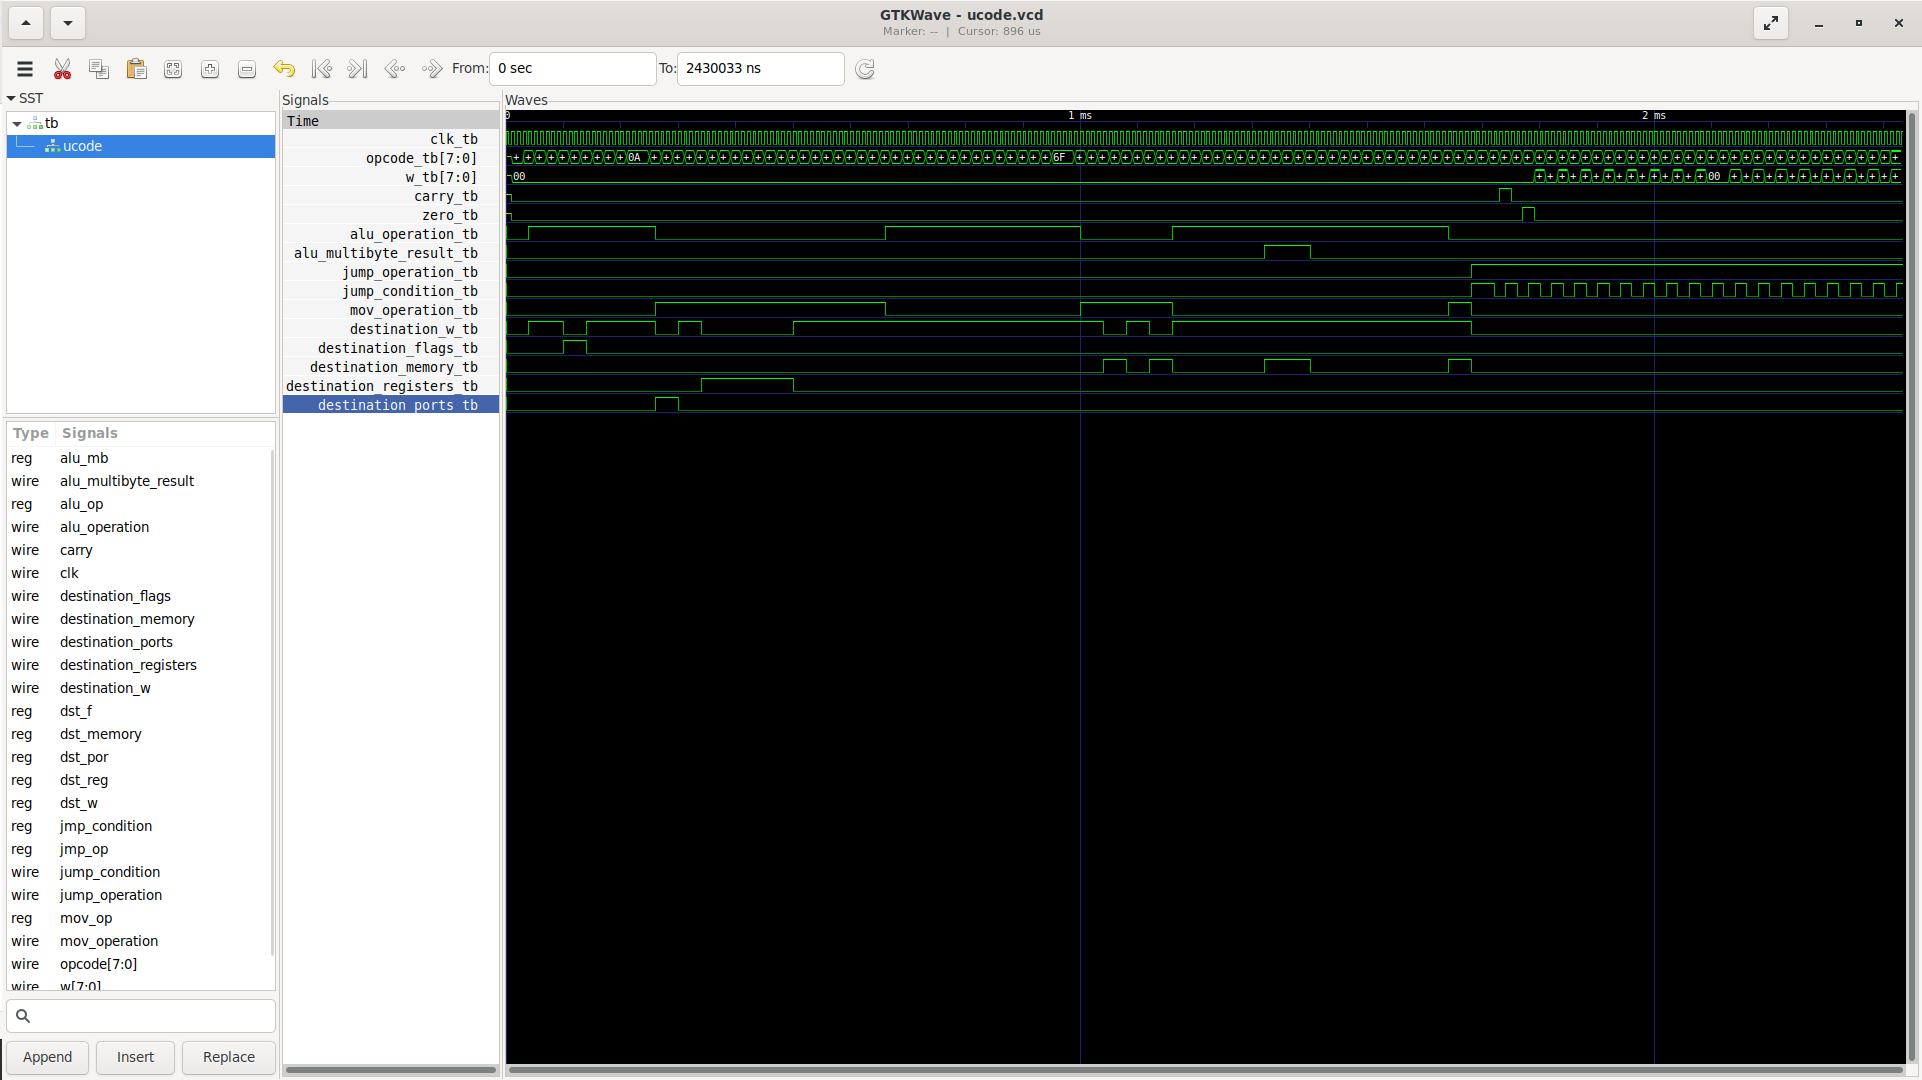
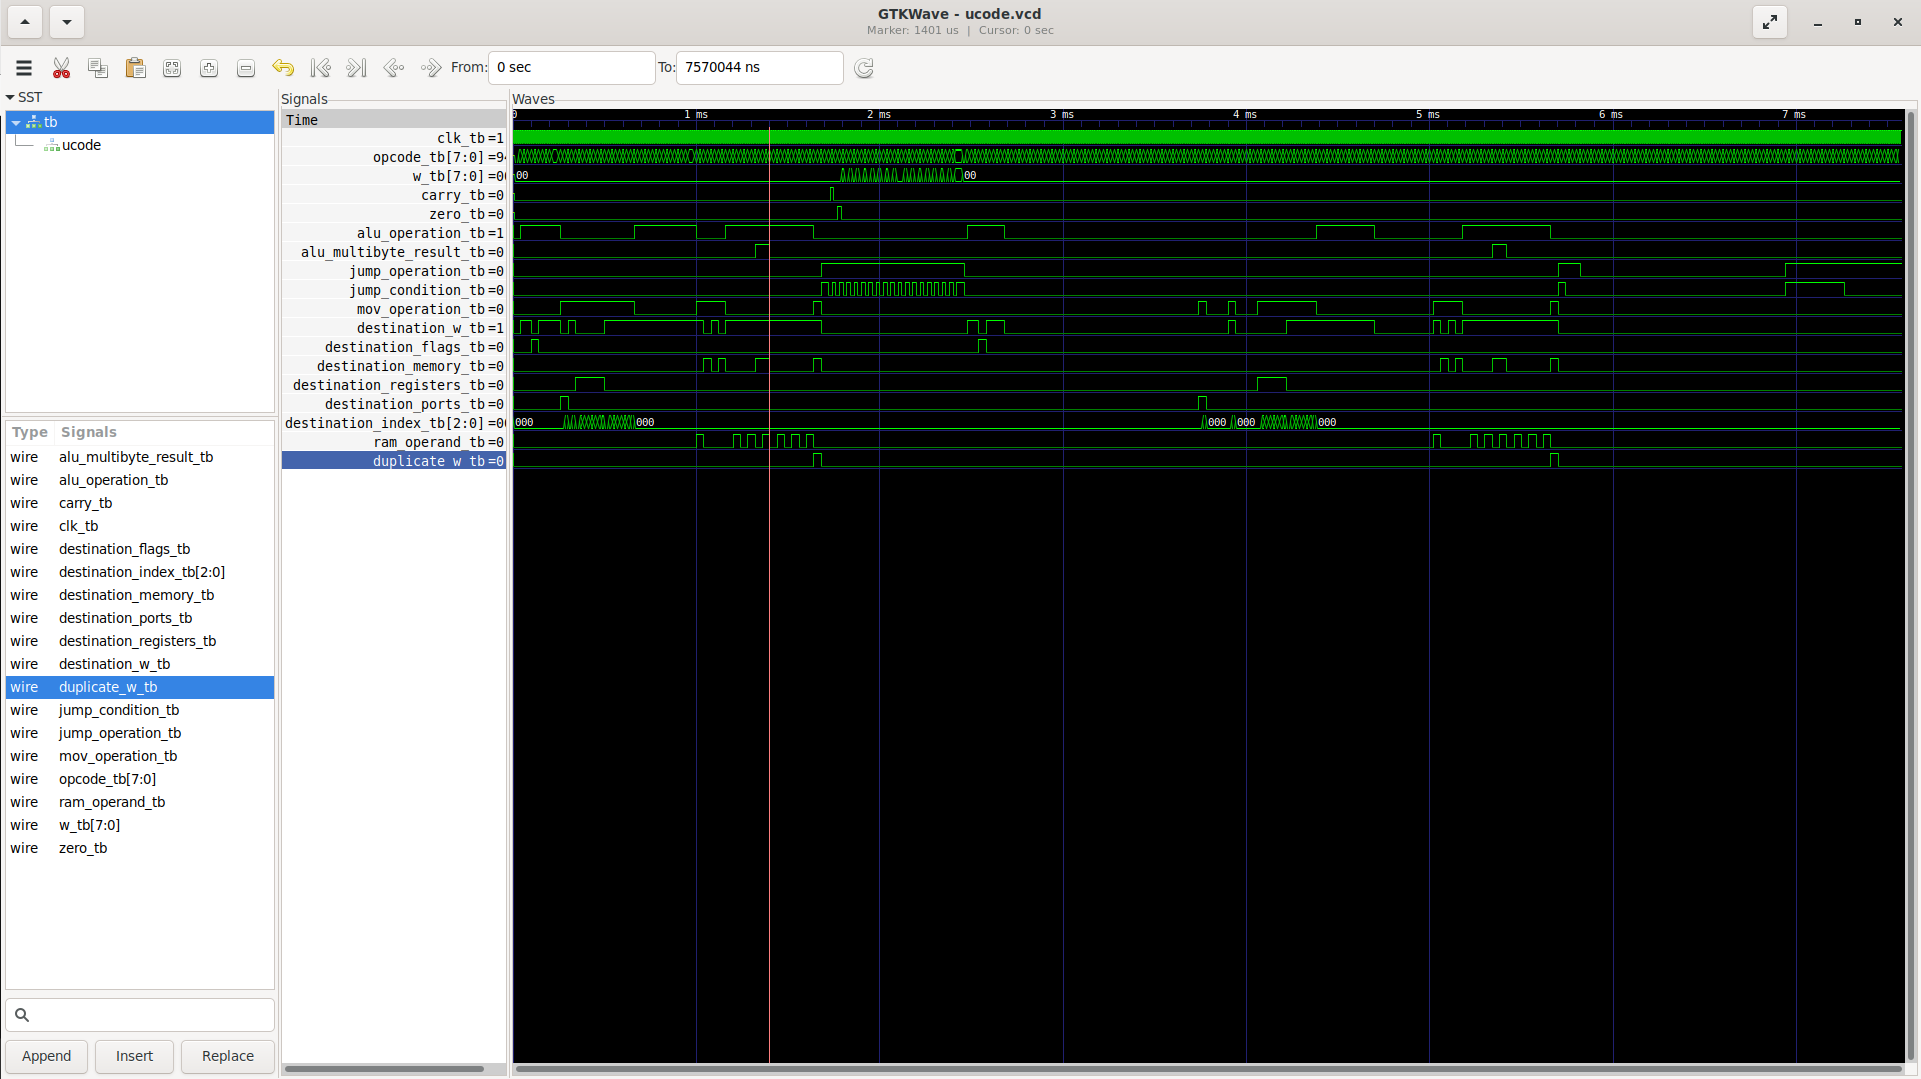
Fixes to readme and gtkw files

Changed region(s): [[0.0, 0.0, 0.9995, 1.0], [0.0625, 0.9481, 0.1562, 1.0], [0.0, 0.9787, 0.0312, 1.0]]

diff --git a/README.md b/README.md
@@ -19,6 +19,9 @@ Implements the microcode that can be used for a CPU implementation, intended to 
 - **destination_memory**: Indicates if destination of operation goes to memory
 - **destination_registers**:  Indicates if destination of operation goes to General Purpose registers
 - **destination_ports**:  Indicates if destination of operation goes to ports
+- **destination_index**: Indicates the index of the destination element that can be Port or Register
+- **ram_operand**:  Indicates if one of the operands must be fetched from RAM first
+- **duplicate_w**:  Indicates if work register must be saved becuase it will be overwritter (swap)
 
 ## Operation:
 
